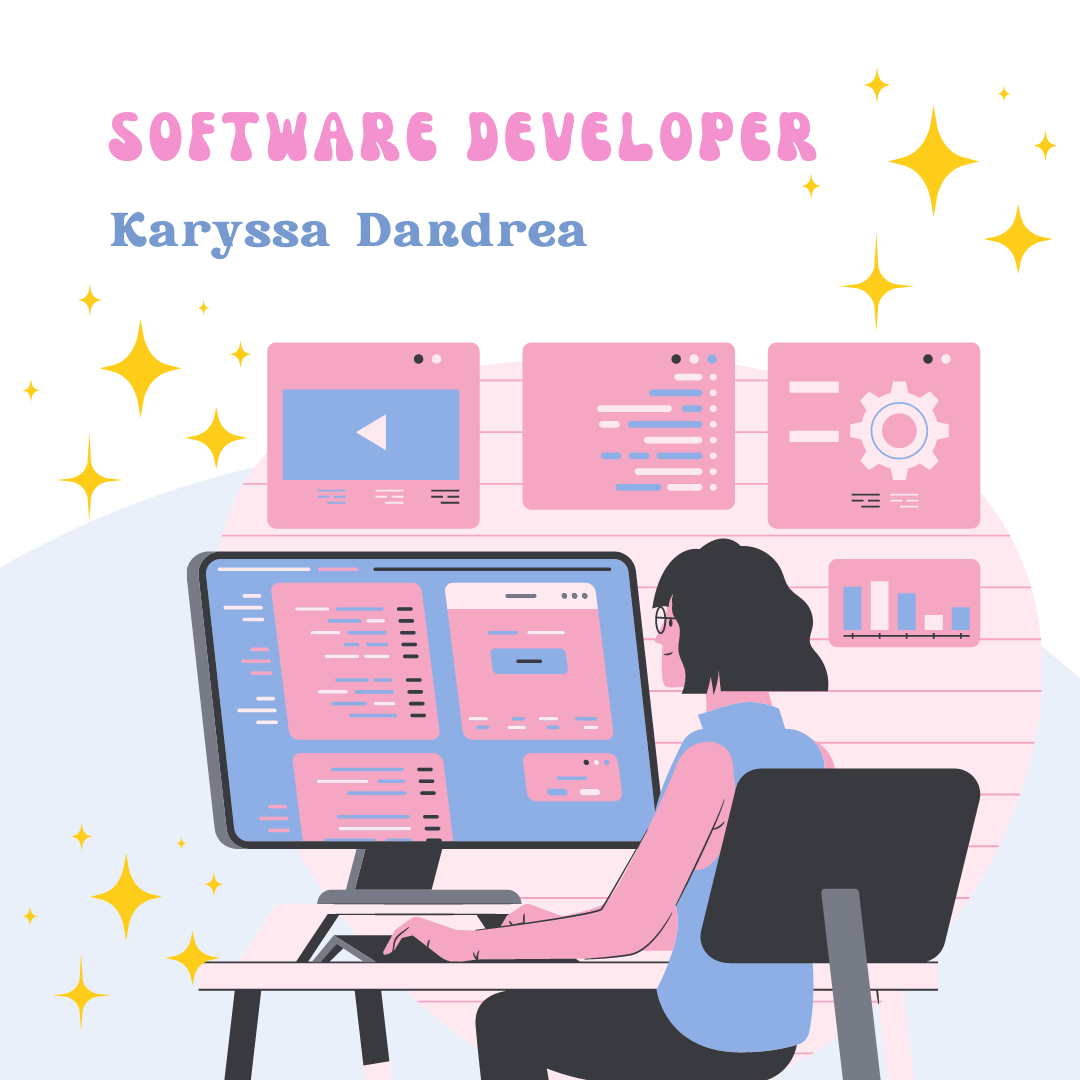
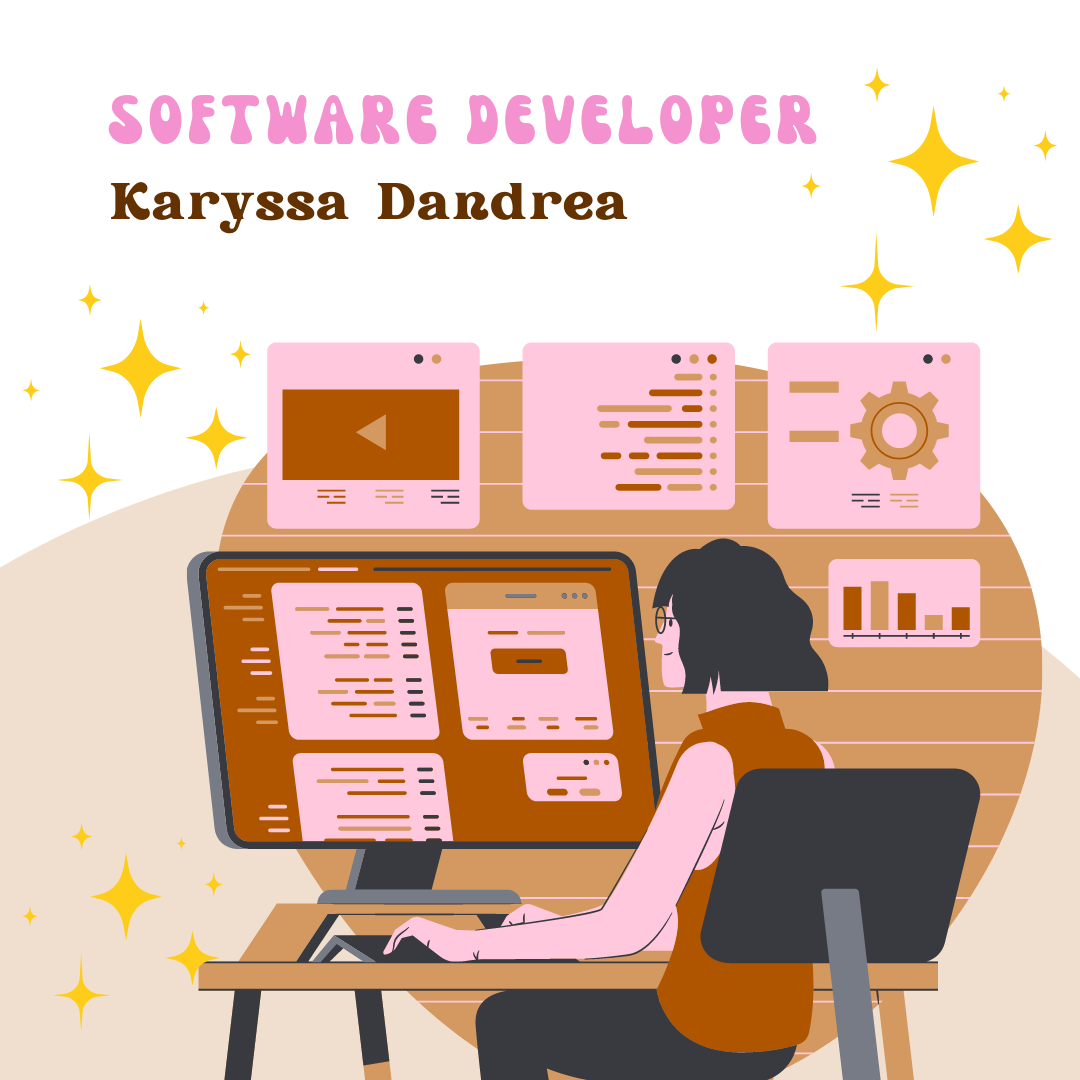
lots of css

diff --git a/src/views/TechStack/TechStack.jsx b/src/views/TechStack/TechStack.jsx
@@ -5,29 +5,40 @@ export default function TechStack() {
   return (
     <div className={styles.tech}>
       <div className={styles.language}>
-        <h3> Languages</h3>
+        <h3>
+          {' '}
+          <div className={styles.err}>Languages</div>
+        </h3>
         <p>JavaScript</p>
         <p>HTML</p>
         <p>CSS</p>
       </div>
       <div className={styles.frames}>
-        <h3>Frameworks // Libraries</h3>
+        <h3>
+          <div className={styles.err}>Frameworks // Libraries</div>
+        </h3>
         <p>React - my fave!</p>
         <p>Node.js</p>
         <p>Redux</p>
         <p>Express</p>
       </div>
       <div className={styles.data}>
-        <h3>Database</h3>
+        <h3>
+          <div className={styles.err}>Database</div>
+        </h3>
         <p>PostgreSQL</p>
       </div>
       <div className={styles.testing}>
-        <h3>Testing</h3>
+        <h3>
+          <div className={styles.err}>Testing</div>
+        </h3>
         <p>QUnit</p>
         <p>Jest</p>
       </div>
       <div className={styles.tools}>
-        <h3> Tools</h3>
+        <h3>
+          <div className={styles.err}> Tools</div>
+        </h3>
         <p>Miroboard</p>
         <p>VSCode</p>
         <p>Netlify</p>
@@ -38,7 +49,9 @@ export default function TechStack() {
         <p>Beekeeper Studio</p>
       </div>
       <div className={styles.dev}>
-        <h3>Practice</h3>
+        <h3>
+          <div className={styles.err}>Practice</div>
+        </h3>
         <p>Mob/Pair programming</p>
         <p>Rest API's</p>
         <p>TDD</p>

diff --git a/src/components/Footer/Footer.jsx b/src/components/Footer/Footer.jsx
@@ -2,5 +2,29 @@ import React from 'react';
 import styles from './Footer.css';
 
 export default function Footer() {
-  return <div className={styles.footer}>Github / Linked In</div>;
+  return (
+    <div className={styles.footer}>
+      <a
+        target="_blank"
+        className="emailink"
+        href="mailto:karyssadandrea@gmail.com?subject=Karyssa"
+      >
+        <div className={styles.email}>Email</div>
+      </a>
+      <a
+        href="https://www.linkedin.com/in/karyssa-dandrea/"
+        target="_blank"
+        className="linkedin"
+      >
+        <div className={styles.linkd}>LinkedIn </div>
+      </a>
+      <a
+        href="https://github.com/karyssa-dandrea"
+        target="_blank"
+        className="github"
+      >
+        <div className={styles.git}>Github </div>
+      </a>
+    </div>
+  );
 }

diff --git a/src/views/TechStack/Tech.css b/src/views/TechStack/Tech.css
@@ -1,10 +1,18 @@
 .tech {
   display: flex;
   flex-direction: row;
-  align-items: center;
-  justify-content: center;
-  background-color: #e7c6ff;
+  width: 70vw;
+  background-color: #763a00;
   justify-content: space-between;
+  color: #ffc8dd;
+  padding: 50px 10px 10px 10px;
+  margin: 20px 0px 20px 0px;
+  border-radius: 5px;
+  font-size: 1.2em;
+  border-color: #b96619;
+  border-style: double;
+  border-width: 10px;
+  font-family: 'Roboto Serif', serif;
 }
 
 .language {
@@ -35,4 +43,9 @@
 .data {
   display: flex;
   flex-direction: column;
+}
+
+.err {
+  border-bottom: 2px solid #ffbc42;
+  display: inline-block;
 }

diff --git a/src/index.html b/src/index.html
@@ -5,7 +5,7 @@
     <meta name="viewport" content="width=device-width, initial-scale=1.0" />
     <meta http-equiv="X-UA-Compatible" content="ie=edge" />
     <style>
-      @import url('https://fonts.googleapis.com/css2?family=Alegreya+Sans+SC:wght@300&family=Bungee&family=Chicle&family=Oi&family=Roboto+Serif:opsz,wght@8..144,300&family=Spicy+Rice&display=swap');
+      @import url('https://fonts.googleapis.com/css2?family=Alegreya+Sans+SC:wght@300&family=Bungee&family=Chicle&family=Monoton&family=Roboto+Serif:opsz,wght@8..144,300&display=swap');
     </style>
     <title>Karyssa Dandrea</title>
   </head>

diff --git a/src/components/Header/Header.jsx b/src/components/Header/Header.jsx
@@ -5,9 +5,15 @@ import styles from './Header.css';
 export default function Header() {
   return (
     <div className={styles.header}>
-      <NavLink to="/">Home</NavLink>
-      <NavLink to="/about">About</NavLink>
-      <NavLink to="/tech">Tech Stack</NavLink>
+      <NavLink to="/">
+        <div className={styles.home}>Home</div>
+      </NavLink>
+      <NavLink to="/about">
+        <div className={styles.about}>About</div>
+      </NavLink>
+      <NavLink to="/tech">
+        <div className={styles.tech}>Tech Stack</div>
+      </NavLink>
     </div>
   );
 }

diff --git a/src/components/Footer/Footer.css b/src/components/Footer/Footer.css
@@ -4,6 +4,25 @@
   display: flex;
   justify-content: space-evenly;
   align-items: center;
-  background-color: #8093f1;
+  background: url('../../assets/mush.png');
+  background-size: 100%;
   bottom: 0%;
+}
+
+.linkd {
+  font-family: 'Monoton', cursive;
+  font-size: 2em;
+  color: #b96619;
+}
+
+.git {
+  font-family: 'Monoton', cursive;
+  font-size: 2em;
+  color: #b96619;
+}
+
+.email {
+  font-family: 'Monoton', cursive;
+  font-size: 2em;
+  color: #b96619;
 }

diff --git a/src/views/About/About.css b/src/views/About/About.css
@@ -13,6 +13,7 @@
   align-items: center;
   padding: 10px;
   margin: 10px;
+  background-color: #f4a261;
 }
 
 .aboutbio {
@@ -21,10 +22,11 @@
   width: 70vw;
   padding: 50px 10px 10px 10px;
   line-height: 25px;
-  background-color: #d09259;
+  background-color: #c27731;
   color: rgb(101, 100, 100);
   margin: 20px 20px 40px 20px;
   border-radius: 5px;
   box-shadow: 0 1px 5px 5px #78380c;
   text-align: center;
+  color: white;
 }

diff --git a/src/components/Header/Header.css b/src/components/Header/Header.css
@@ -4,5 +4,14 @@
   display: flex;
   justify-content: space-evenly;
   align-items: center;
-  /* background-color: #fbc4ab; */
+  background: url('../../assets/footer.png');
+  background-size: 100%;
+}
+
+.home,
+.tech,
+.about {
+  font-family: 'Monoton', cursive;
+  font-size: 2em;
+  color: #b96619;
 }

diff --git a/src/views/Home/Home.css b/src/views/Home/Home.css
@@ -1,5 +1,5 @@
 img {
-  width: 50vw;
+  width: 40vw;
   justify-content: center;
   align-items: center;
 }
@@ -18,5 +18,5 @@ img {
   text-align: center;
   margin: 10px 10px 25px 10px;
   width: 60vw;
-  font-family: 'Alegreya Sans SC', sans-serif;
+  font-family: 'Roboto Serif', serif;
 }
